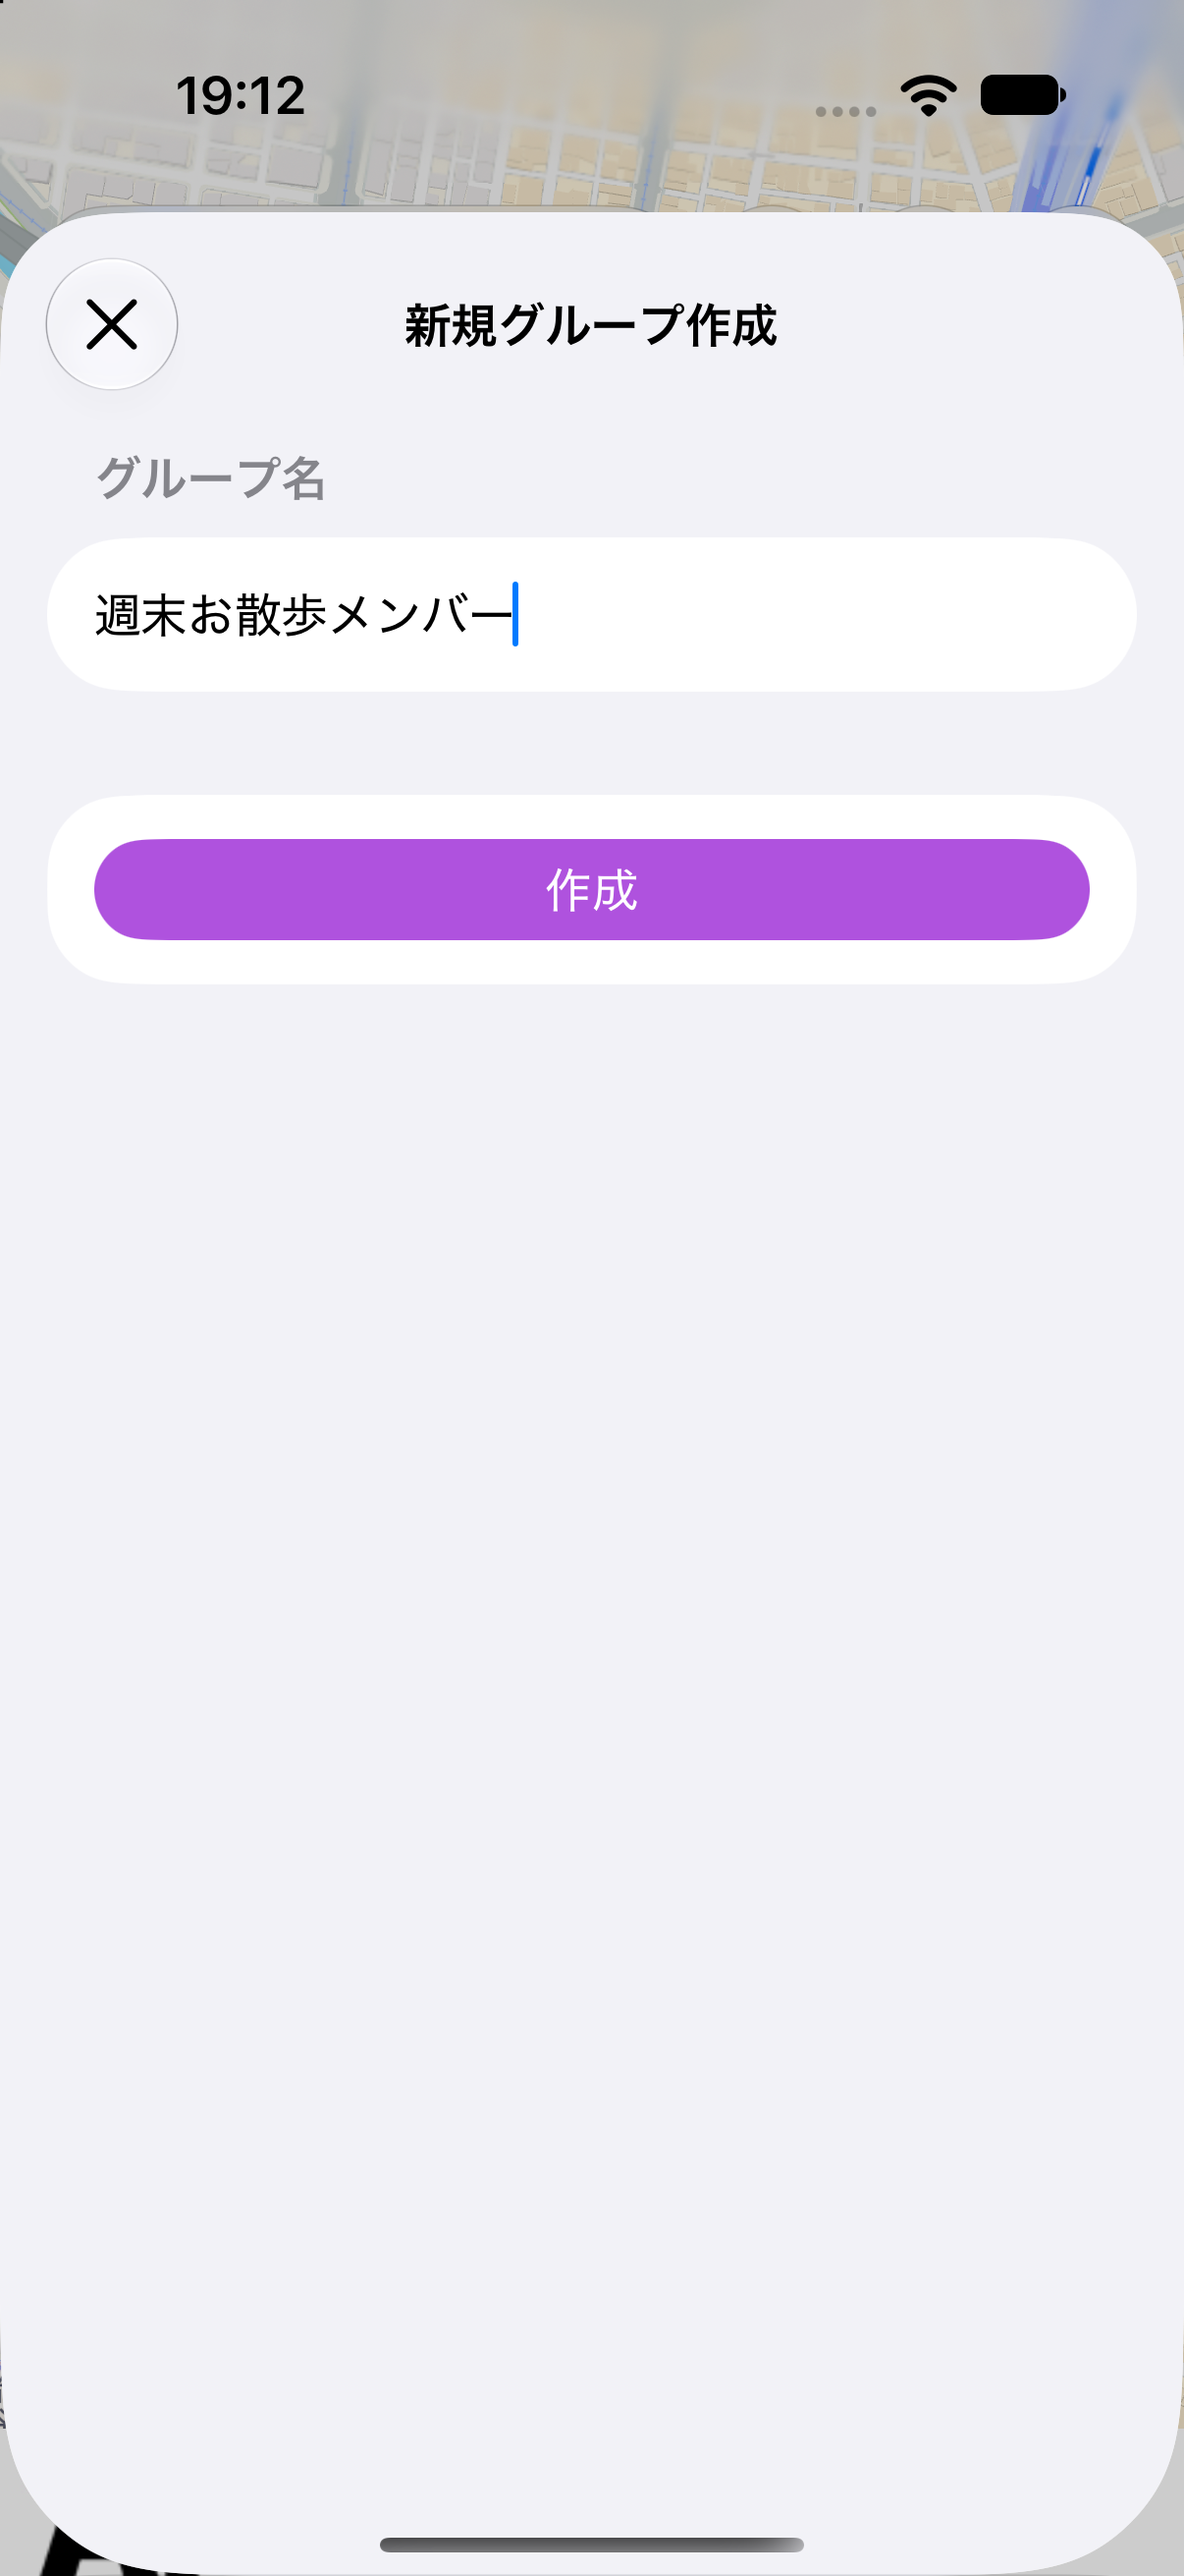
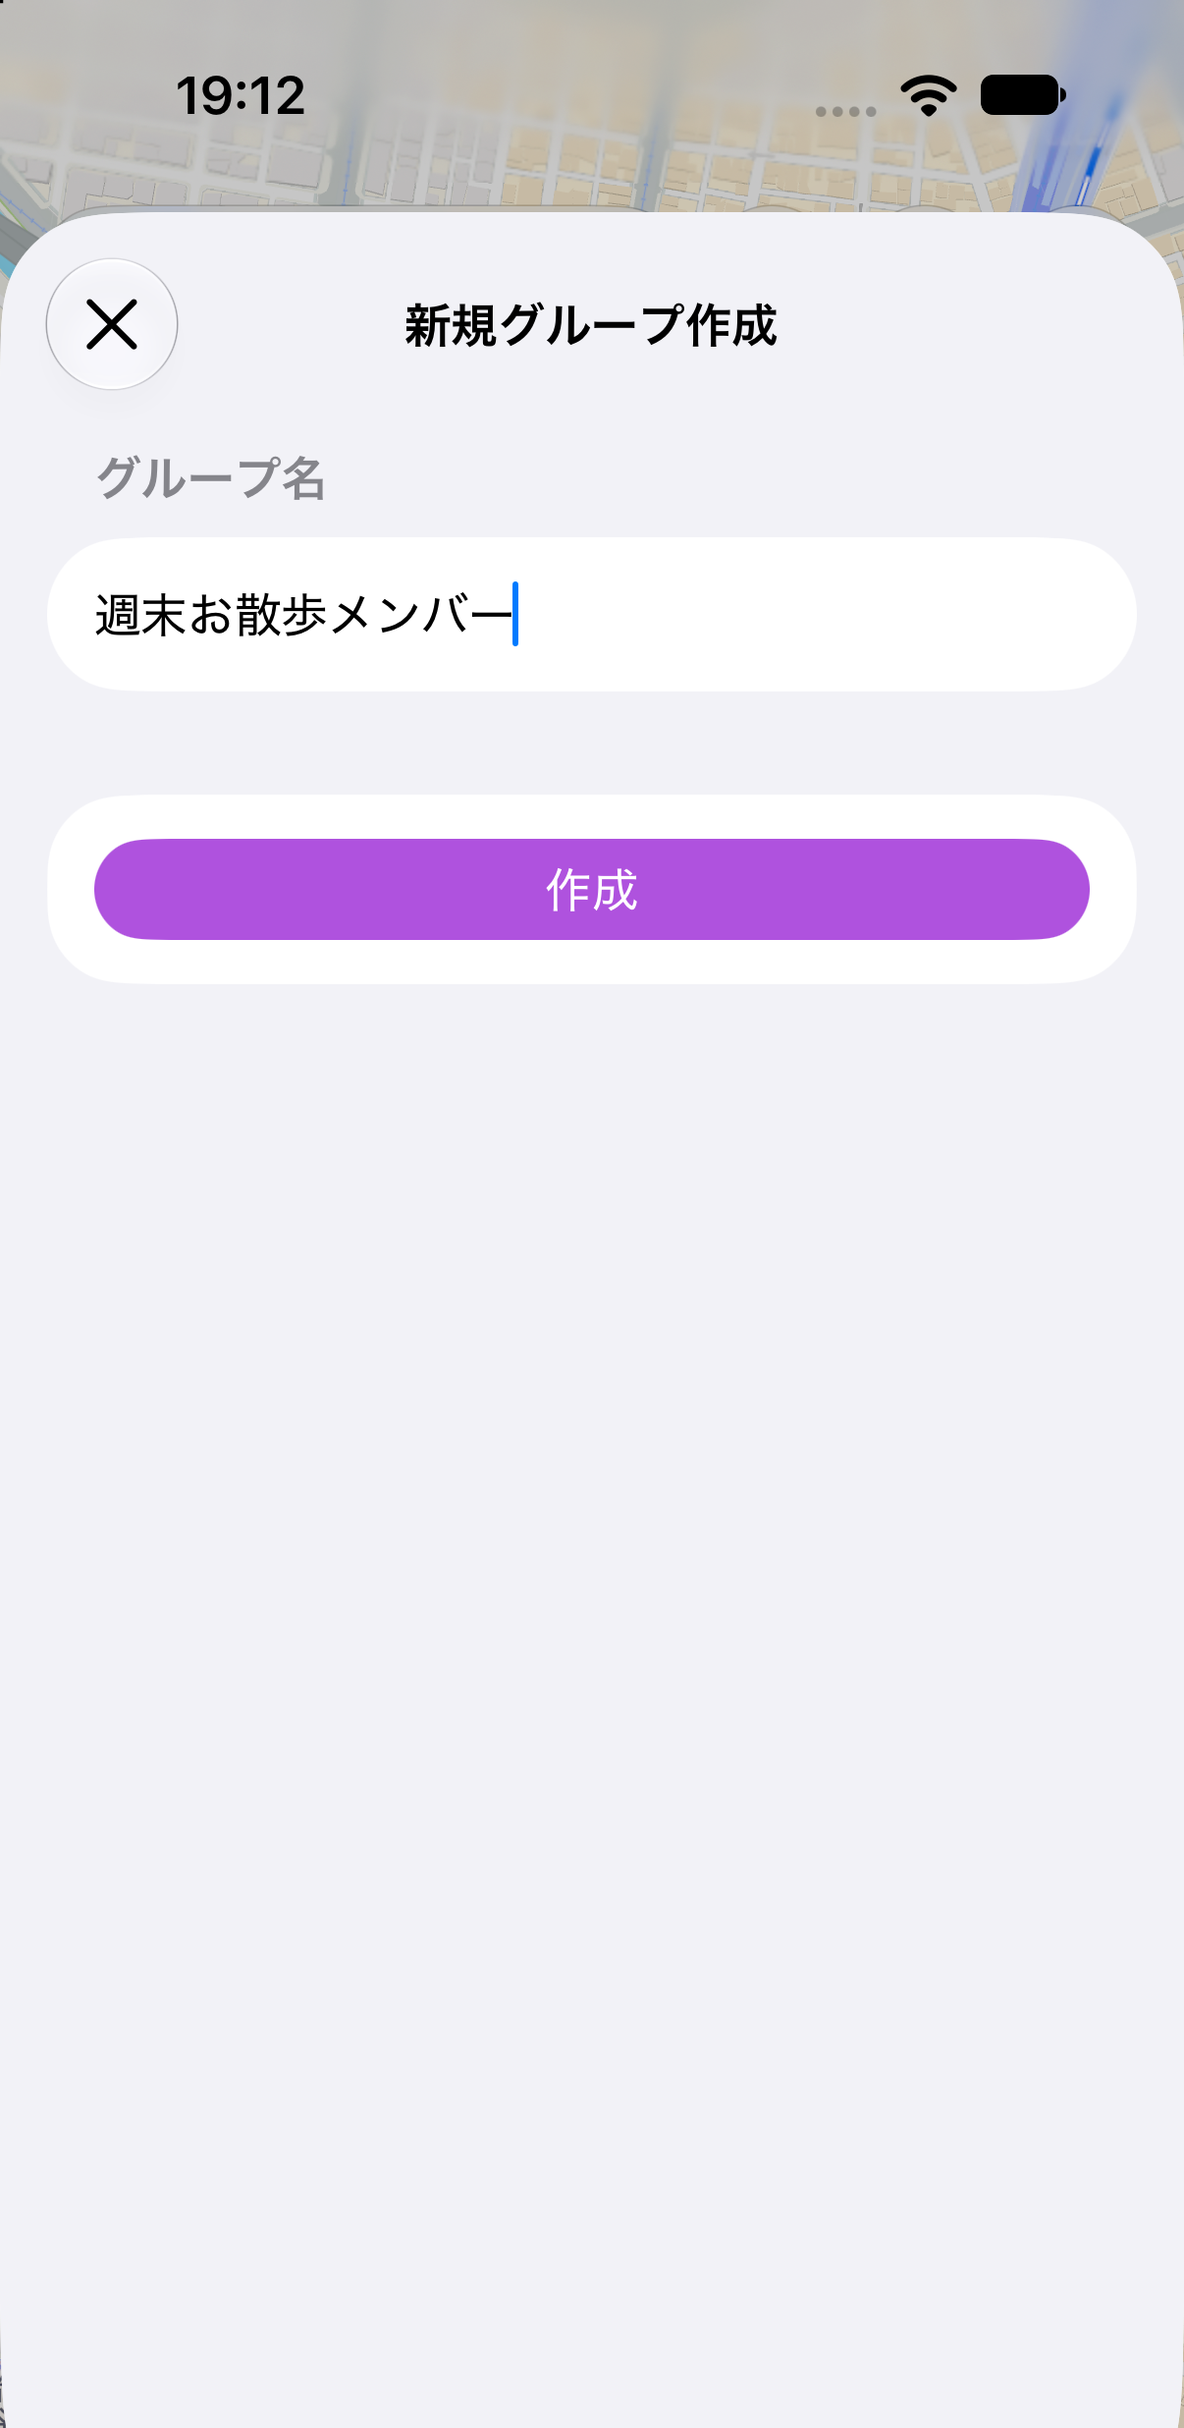
fix: group-share.pngを1206x2472にクロップしalt/figcaptionを実画面に合わせる
L1レビュー差し戻し(AC-4)対応。group-share.pngの解像度をmap-home/spot-detailと
統一(1206x2622→1206x2472、上端保持で下端150pxを除去)。画面内容が新規グループ
作成フォームであるため、alt属性・figcaptionをその内容に合わせて修正(ja/en)。
社長方針(2026-11-04): 撮り直しはせず新規グループ作成画面を正式に受け入れる。

diff --git a/place-board/index.html b/place-board/index.html
@@ -223,8 +223,8 @@
             </div>
           </div>
           <figure class="step-visual">
-            <img src="assets/screenshots/group-share.png" width="689" height="1500" alt="グループ共有・メンバー管理画面">
-            <figcaption>グループ共有</figcaption>
+            <img src="assets/screenshots/group-share.png" width="689" height="1500" alt="新規グループ作成画面（グループ名入力）">
+            <figcaption>新規グループ作成</figcaption>
           </figure>
         </article>
 

diff --git a/place-board/en/index.html b/place-board/en/index.html
@@ -224,8 +224,8 @@
             </div>
           </div>
           <figure class="step-visual">
-            <img src="../assets/screenshots/group-share.png" width="689" height="1500" alt="Group sharing and member management screen">
-            <figcaption>Group sharing</figcaption>
+            <img src="../assets/screenshots/group-share.png" width="689" height="1500" alt="Create new group screen (entering a group name)">
+            <figcaption>Create group</figcaption>
           </figure>
         </article>
 
